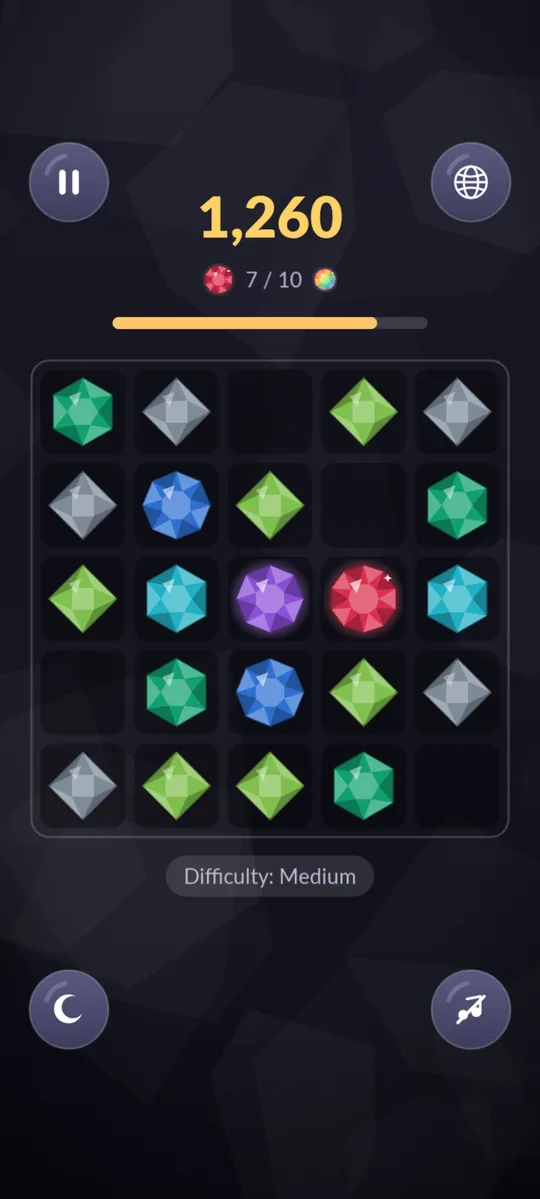
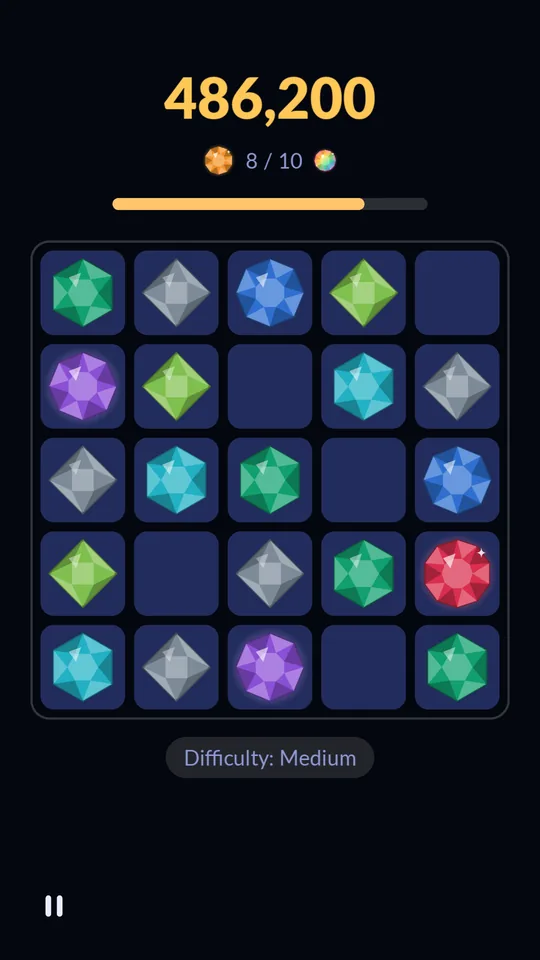
Capturas de Prisma 4.1 y Sky Dash 2.0 desde las fichas de Play
Cuatro capturas por juego, en 9:16, con su versión en inglés; salen de
ficha-play-4.1.0 y de sky-dash/covers/play-screenshots-2.0.

Claude-Session: https://claude.ai/code/session_01VYqwbqbBCzpHsMq5UvKfSE

diff --git a/index.html b/index.html
@@ -29,7 +29,7 @@
         </p>
       </section>
 
-      <!-- Las capturas con texto van en pareja lang="es"/lang="en"; las de partida, sin texto, sirven para los dos. -->
+      <!-- Las capturas con texto van en pareja lang="es"/lang="en"; la de vuelo de Sky Dash, sin texto, sirve para los dos. -->
       <!-- Para activar el botón de Google Play, pon la URL de la ficha en data-play-url. -->
       <article class="juego" id="prisma" data-play-url="">
         <div class="juego-cabecera">
@@ -53,12 +53,14 @@
           </span>
         </p>
         <div class="capturas">
-          <img lang="es" src="assets/prisma/1.webp" alt="Prisma" width="540" height="1200" loading="lazy" />
-          <img lang="en" src="assets/prisma/en-1.webp" alt="Prisma" width="540" height="1200" loading="lazy" />
-          <img lang="es" src="assets/prisma/2.webp" alt="Prisma" width="540" height="1200" loading="lazy" />
-          <img lang="en" src="assets/prisma/en-2.webp" alt="Prisma" width="540" height="1200" loading="lazy" />
-          <img lang="es" src="assets/prisma/3.webp" alt="Prisma" width="540" height="1200" loading="lazy" />
-          <img lang="en" src="assets/prisma/en-3.webp" alt="Prisma" width="540" height="1200" loading="lazy" />
+          <img lang="es" src="assets/prisma/1.webp" alt="Prisma" width="540" height="960" loading="lazy" />
+          <img lang="en" src="assets/prisma/en-1.webp" alt="Prisma" width="540" height="960" loading="lazy" />
+          <img lang="es" src="assets/prisma/2.webp" alt="Prisma" width="540" height="960" loading="lazy" />
+          <img lang="en" src="assets/prisma/en-2.webp" alt="Prisma" width="540" height="960" loading="lazy" />
+          <img lang="es" src="assets/prisma/3.webp" alt="Prisma" width="540" height="960" loading="lazy" />
+          <img lang="en" src="assets/prisma/en-3.webp" alt="Prisma" width="540" height="960" loading="lazy" />
+          <img lang="es" src="assets/prisma/4.webp" alt="Prisma" width="540" height="960" loading="lazy" />
+          <img lang="en" src="assets/prisma/en-4.webp" alt="Prisma" width="540" height="960" loading="lazy" />
         </div>
         <div class="enlaces">
           <a class="boton play" href="https://play.google.com/store/apps/details?id=es.jibanez.prisma" target="_blank" tabindex="-1">
@@ -93,10 +95,13 @@
           </span>
         </p>
         <div class="capturas">
-          <img src="assets/sky-dash/1.webp" alt="Sky Dash" width="540" height="1200" loading="lazy" />
-          <img src="assets/sky-dash/2.webp" alt="Sky Dash" width="540" height="1200" loading="lazy" />
-          <img lang="es" src="assets/sky-dash/3.webp" alt="Sky Dash" width="540" height="1200" loading="lazy" />
-          <img lang="en" src="assets/sky-dash/en-3.webp" alt="Sky Dash" width="540" height="1200" loading="lazy" />
+          <img src="assets/sky-dash/1.webp" alt="Sky Dash" width="540" height="960" loading="lazy" />
+          <img lang="es" src="assets/sky-dash/2.webp" alt="Sky Dash" width="540" height="960" loading="lazy" />
+          <img lang="en" src="assets/sky-dash/en-2.webp" alt="Sky Dash" width="540" height="960" loading="lazy" />
+          <img lang="es" src="assets/sky-dash/3.webp" alt="Sky Dash" width="540" height="960" loading="lazy" />
+          <img lang="en" src="assets/sky-dash/en-3.webp" alt="Sky Dash" width="540" height="960" loading="lazy" />
+          <img lang="es" src="assets/sky-dash/4.webp" alt="Sky Dash" width="540" height="960" loading="lazy" />
+          <img lang="en" src="assets/sky-dash/en-4.webp" alt="Sky Dash" width="540" height="960" loading="lazy" />
         </div>
         <div class="enlaces">
           <a class="boton play" href="https://play.google.com/store/apps/details?id=es.jibanez.skydash" target="_blank" tabindex="-1">

diff --git a/assets/estilo.css b/assets/estilo.css
@@ -139,7 +139,7 @@ html.js .idiomas {
 .capturas img {
   flex: none;
   width: min(42vw, 180px);
-  aspect-ratio: 9 / 20;
+  aspect-ratio: 9 / 16;
   height: auto;
   object-fit: cover;
   border-radius: 12px;
